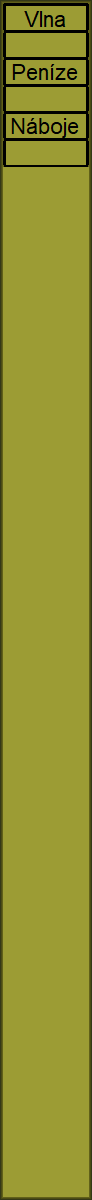
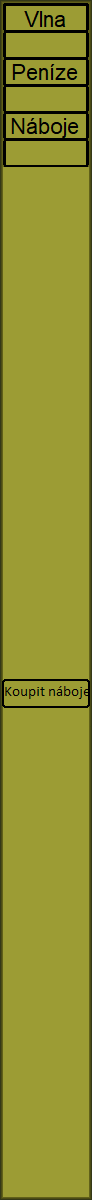
Přidání tlačítka pro koupi nábojů
Funguje ale podobně jako věž -> je zapotřebí kliknout mimo tlačítka

Changed region(s): [[0.0217, 0.555, 0.4783, 0.5858], [0.5217, 0.555, 0.8913, 0.5858], [0.913, 0.555, 0.9783, 0.5858]]

diff --git a/source/game.py b/source/game.py
@@ -69,7 +69,9 @@ def load_seznam_entit(hra, log):
     hra.list_of_buttons.append(tower3button)
 
     remove_action_button = hra.Tlacitko(hra, 0, 710, None)
+    purchase_ammo_button = hra.Tlacitko(hra, 0, 710 - 28, "buy_ammo")
     hra.list_of_buttons.append(remove_action_button)
+    hra.list_of_buttons.append(purchase_ammo_button)
 
     return seznam_entit
 
@@ -368,19 +370,29 @@ def game_main(mapa, obtiznost):
 
             if event.type == pygame.MOUSEBUTTONDOWN and event.button == 1:
                 action_changed = False
+                
                 for button in hra.list_of_buttons:
                     if button.rect.collidepoint(pygame.mouse.get_pos()):
                         current_action = button.action
                         action_changed = True
+                        
                         if not current_action:
                             circle_radius = 0
                             circle_radius_range = 0
+                
                 if not action_changed and current_action:
                     x, y = pygame.mouse.get_pos()
-                    nova_vez = hra.Vez(current_action, (x - 22, y - 22), hra)
-                    if not test_for_collisions(nova_vez, hra) and hra.penezenka >= nova_vez.placement_cost:
-                        hra.seznam_entit["veze"].append(nova_vez)
-                        hra.penezenka -= nova_vez.placement_cost
+                    
+                    if current_action == "buy_ammo":
+                        hra.list_of_buttons[4].buy_ammo(hra)
+                    
+                    else:
+                        nova_vez = hra.Vez(current_action, (x - 22, y - 22), hra)
+
+                        if not test_for_collisions(nova_vez, hra) and hra.penezenka >= nova_vez.placement_cost:
+                            hra.seznam_entit["veze"].append(nova_vez)
+                            hra.penezenka -= nova_vez.placement_cost
+            
             elif event.type == pygame.MOUSEBUTTONDOWN and event.button == 3:
                 current_action = None
                 circle_radius = 0

diff --git a/source/classes.py b/source/classes.py
@@ -128,7 +128,7 @@ class Hra:
                     self.rect_color = (255, 255, 0)
                     self.odmena = 7
                 case "tank":
-                    self.hp = 25
+                    self.hp = 50
                     self.speed = 1
                     self.rect_color = (0, 0, 0)
                     self.odmena = 10
@@ -535,6 +535,13 @@ class Hra:
         def __init__(self, hra_instance, x, y, action):
             self.rect = pygame.Rect(x, y, 90, 90)
             self.action = action
+
+        def buy_ammo(self, hra_instance):
+            if self.action == "buy_ammo":
+                if hra_instance.penezenka >= 200 and hra_instance.mnozstvi_streliva < hra_instance.celkova_kapacita_streliva:
+                    hra_instance.mnozstvi_streliva += 50
+                    hra_instance.penezenka -= 200
+
 
     class Logging:
         def __init__(self):
